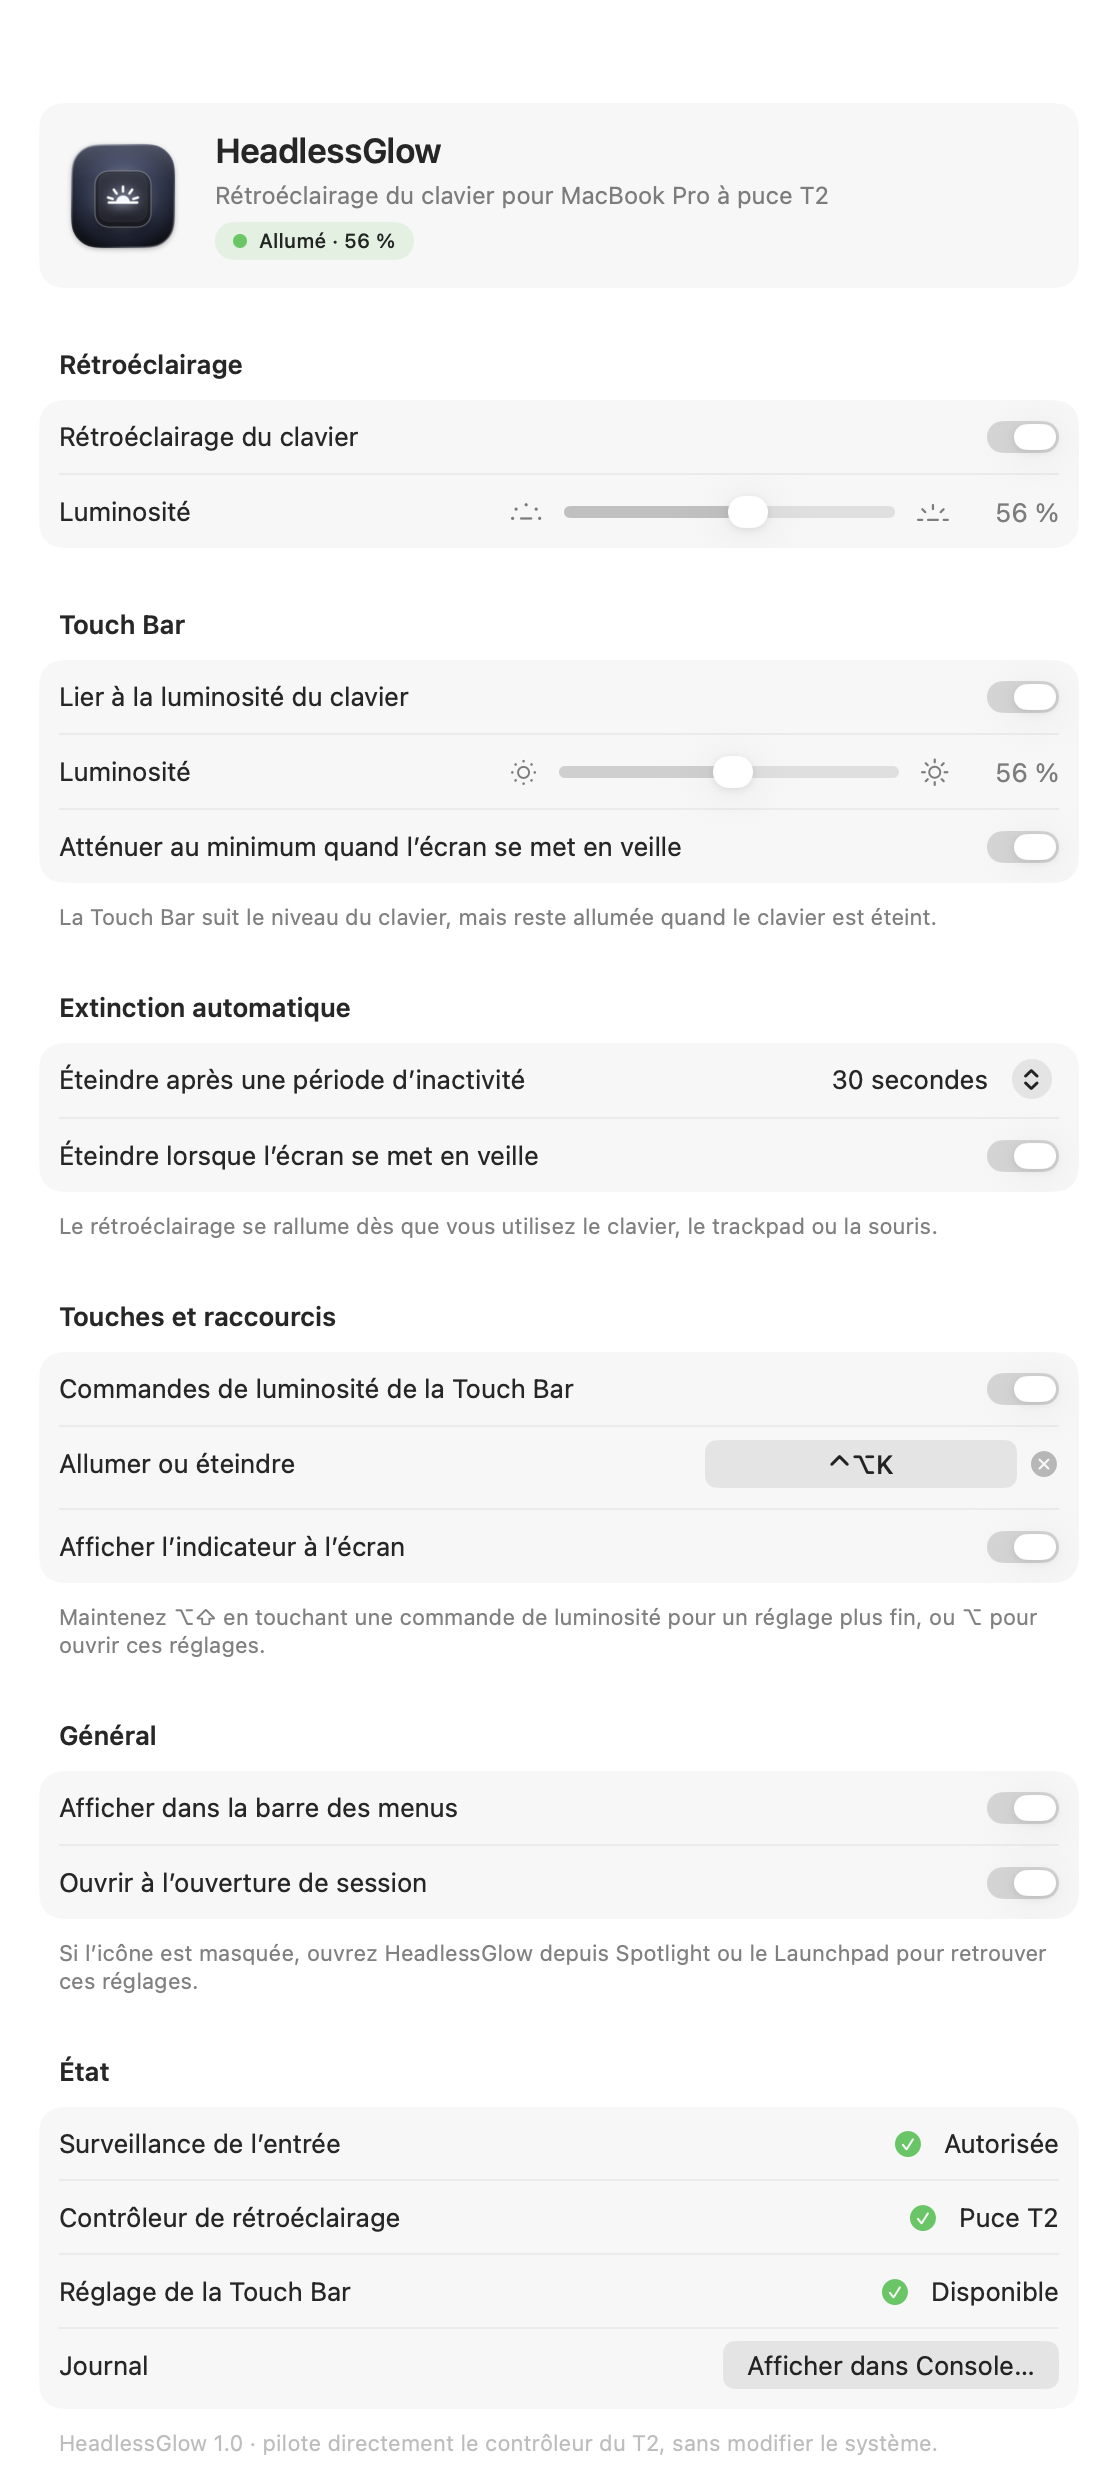
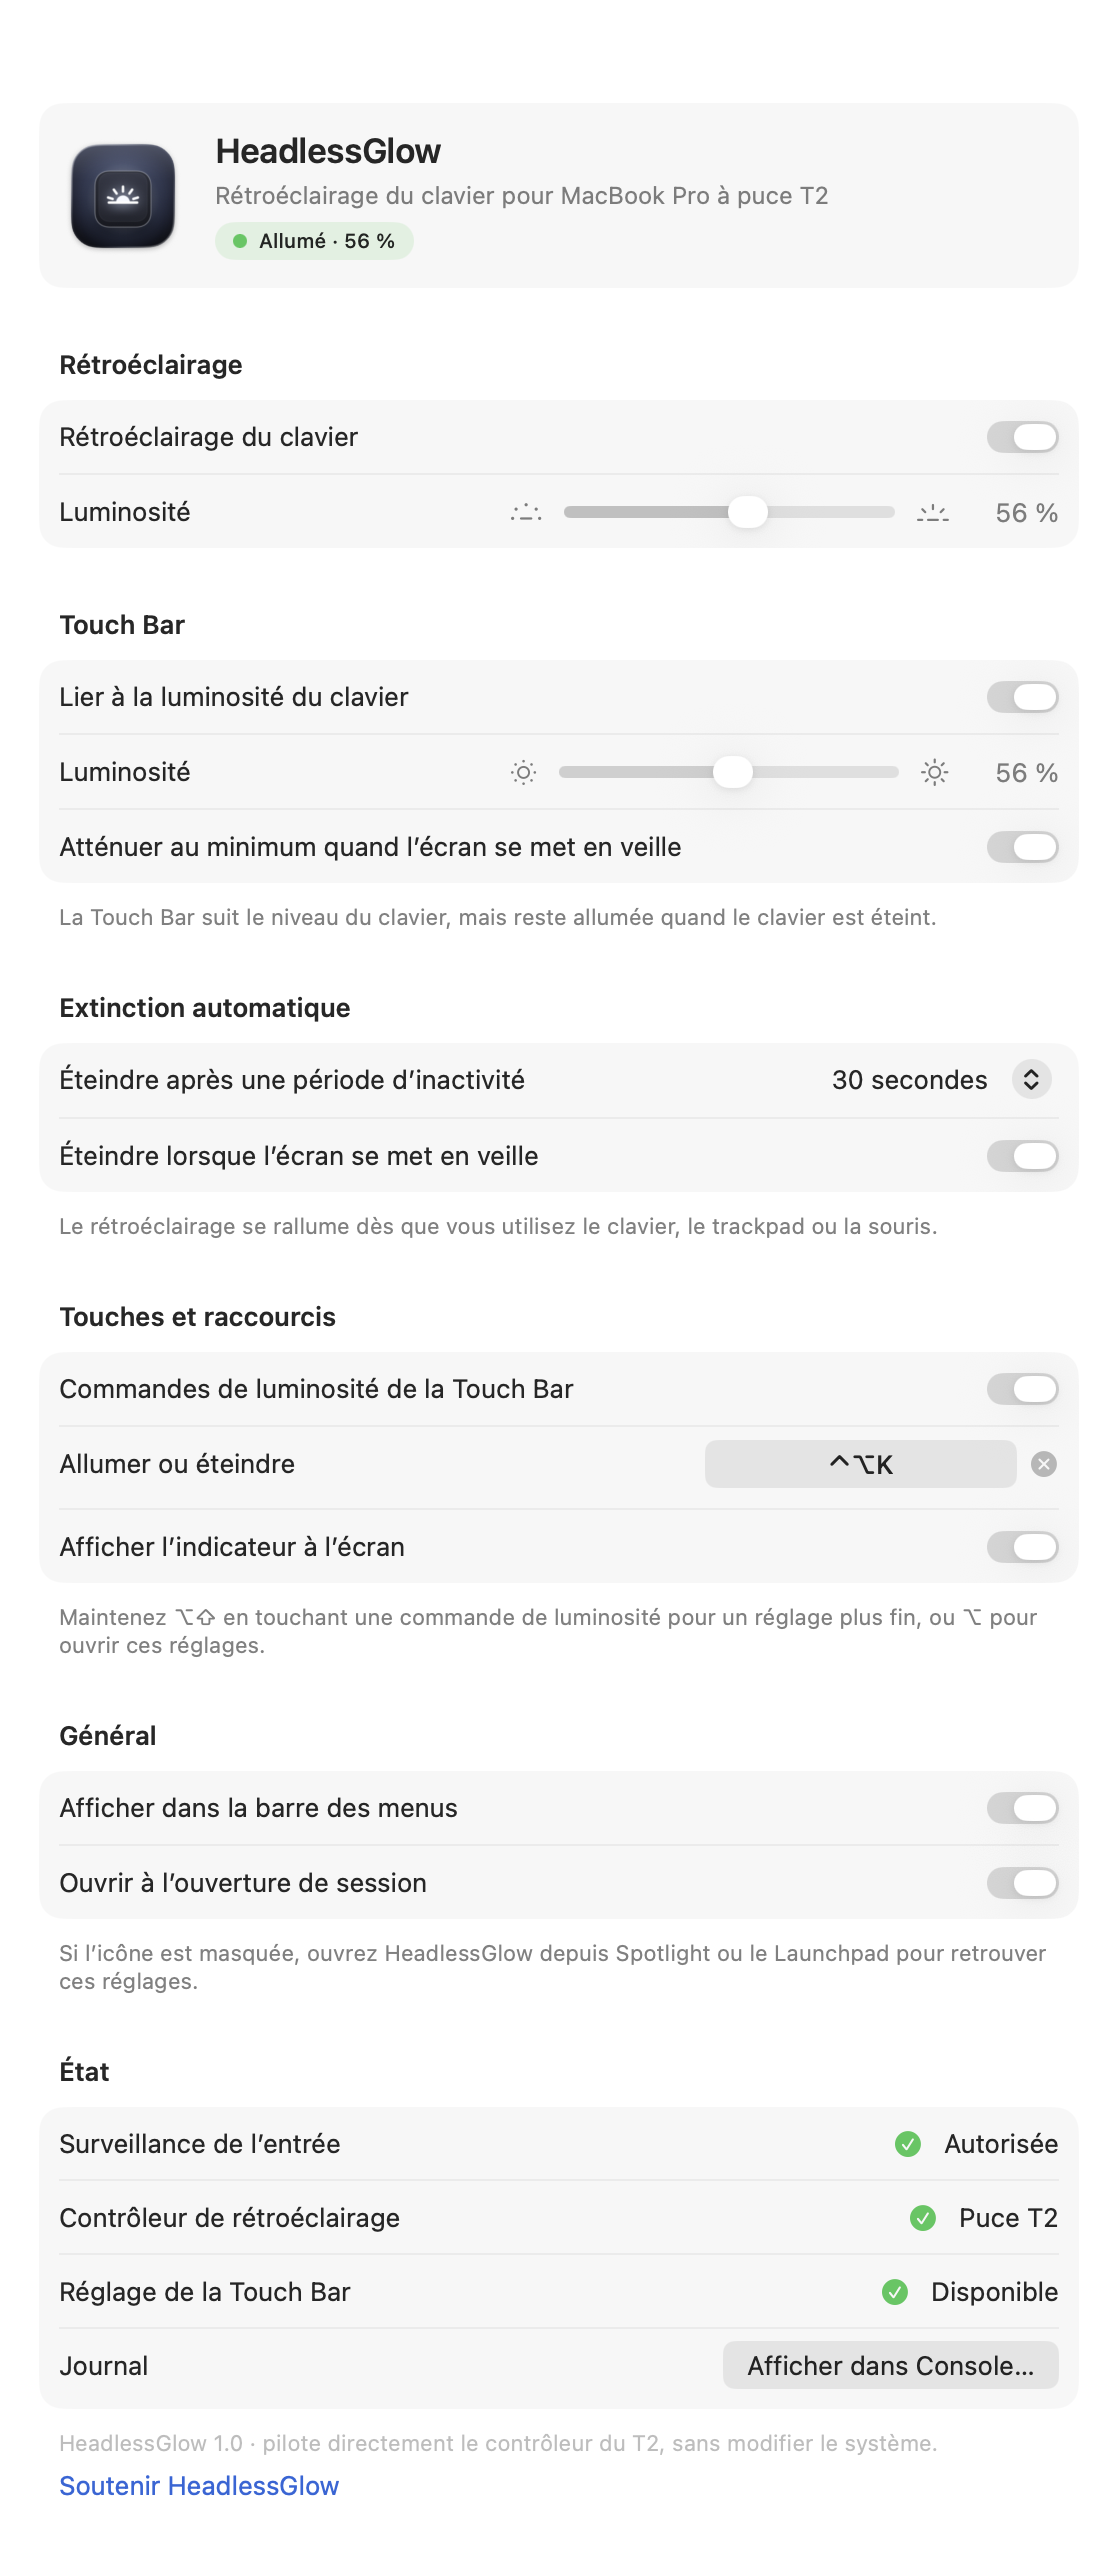
Add donation options
- README (English and French): Support section with BTC, ETH/USDC/USDT
  (Ethereum, Base, Arbitrum, Optimism) and LTC addresses
- GitHub "Sponsor" button (FUNDING.yml) linking to that section
- Discreet "Support HeadlessGlow" link at the bottom of the settings
- Updated screenshots

diff --git a/src/app/SettingsView.swift b/src/app/SettingsView.swift
@@ -142,9 +142,15 @@ struct SettingsView: View {
             } header: {
                 Text("Status")
             } footer: {
-                Text("HeadlessGlow \(AppEnv.version) · drives the T2 controller directly, without modifying the system.")
-                    .foregroundStyle(.tertiary)
-                    .frame(maxWidth: .infinity, alignment: .leading)   // leading on every macOS version
+                VStack(alignment: .leading, spacing: 6) {
+                    Text("HeadlessGlow \(AppEnv.version) · drives the T2 controller directly, without modifying the system.")
+                        .foregroundStyle(.tertiary)
+                    // The link target is localized too: the French README has its own section.
+                    if let url = URL(string: tr("https://github.com/OnixBrave/HeadlessGlow#support")) {
+                        Link("Support HeadlessGlow", destination: url)
+                    }
+                }
+                .frame(maxWidth: .infinity, alignment: .leading)   // leading on every macOS version
             }
         }
         .formStyle(.grouped)

diff --git a/README.fr.md b/README.fr.md
@@ -155,6 +155,18 @@ Le script retire l’app, la commande, le service, les réglages, l’autorisati
 
 HeadlessGlow utilise des interfaces matérielles non documentées. Il a été testé sur un seul modèle ; utilisez-le à vos risques. Il n’est ni affilié à Apple ni approuvé par Apple. MacBook Pro, Touch Bar et macOS sont des marques d’Apple Inc.
 
+## Soutenir le projet
+
+HeadlessGlow est gratuit et open source. S’il a rallumé votre clavier et que vous voulez dire merci, les dons sont les bienvenus :
+
+| Monnaie | Réseau | Adresse |
+|---|---|---|
+| Bitcoin (BTC) | Bitcoin | `bc1qsmpzq2hzruf2lgpexz4wtg0p0c0t8uxujnckfw` |
+| ETH, USDC, USDT | Ethereum, Base, Arbitrum ou Optimism | `0x2860E6465E03E714e4eCa092DcaeCCE2CE601D1C` |
+| Litecoin (LTC) | Litecoin | `LeDfGzBNgJGJURon1LCizT9n8LshTThBjD` |
+
+Vérifiez le réseau dans votre portefeuille avant d’envoyer. Sur Base, Arbitrum ou Optimism, les frais coûtent une fraction de centime. Mettre une étoile au dépôt et dire comment HeadlessGlow fonctionne sur votre Mac aide beaucoup aussi.
+
 ## Licence
 
 [MIT](LICENSE) © 2026 OnixBrave

diff --git a/README.md b/README.md
@@ -155,6 +155,18 @@ This removes the app, the command, the login service, the settings, the permissi
 
 HeadlessGlow uses undocumented hardware interfaces. It has been tested on a single model; use it at your own risk. It is not affiliated with or endorsed by Apple. MacBook Pro, Touch Bar and macOS are trademarks of Apple Inc.
 
+## Support
+
+HeadlessGlow is free and open source. If it brought your keyboard back to life and you'd like to say thanks, donations are welcome:
+
+| Currency | Network | Address |
+|---|---|---|
+| Bitcoin (BTC) | Bitcoin | `bc1qsmpzq2hzruf2lgpexz4wtg0p0c0t8uxujnckfw` |
+| ETH, USDC, USDT | Ethereum, Base, Arbitrum or Optimism | `0x2860E6465E03E714e4eCa092DcaeCCE2CE601D1C` |
+| Litecoin (LTC) | Litecoin | `LeDfGzBNgJGJURon1LCizT9n8LshTThBjD` |
+
+Check the network in your wallet before sending. On Base, Arbitrum or Optimism, fees are a fraction of a cent. Starring the repository and reporting how HeadlessGlow works on your Mac help a lot too.
+
 ## License
 
 [MIT](LICENSE) © 2026 OnixBrave

diff --git a/.github/release-notes.md b/.github/release-notes.md
@@ -22,6 +22,8 @@ The app isn't notarized (that requires a paid Apple Developer account), so `inst
 
 SHA-256 of the zip: `{{SHA256}}`
 
+Like it? See [Support](https://github.com/OnixBrave/HeadlessGlow#support) for donation addresses.
+
 ---
 
 **Français** : téléchargez le zip, ouvrez-le, puis dans le Terminal : `cd ~/Downloads/HeadlessGlow-{{VERSION}} && ./install.sh`, et autorisez HeadlessGlow dans *Réglages Système → Confidentialité et sécurité → Surveillance de l’entrée*. Détails dans le [README en français](https://github.com/OnixBrave/HeadlessGlow/blob/main/README.fr.md).
